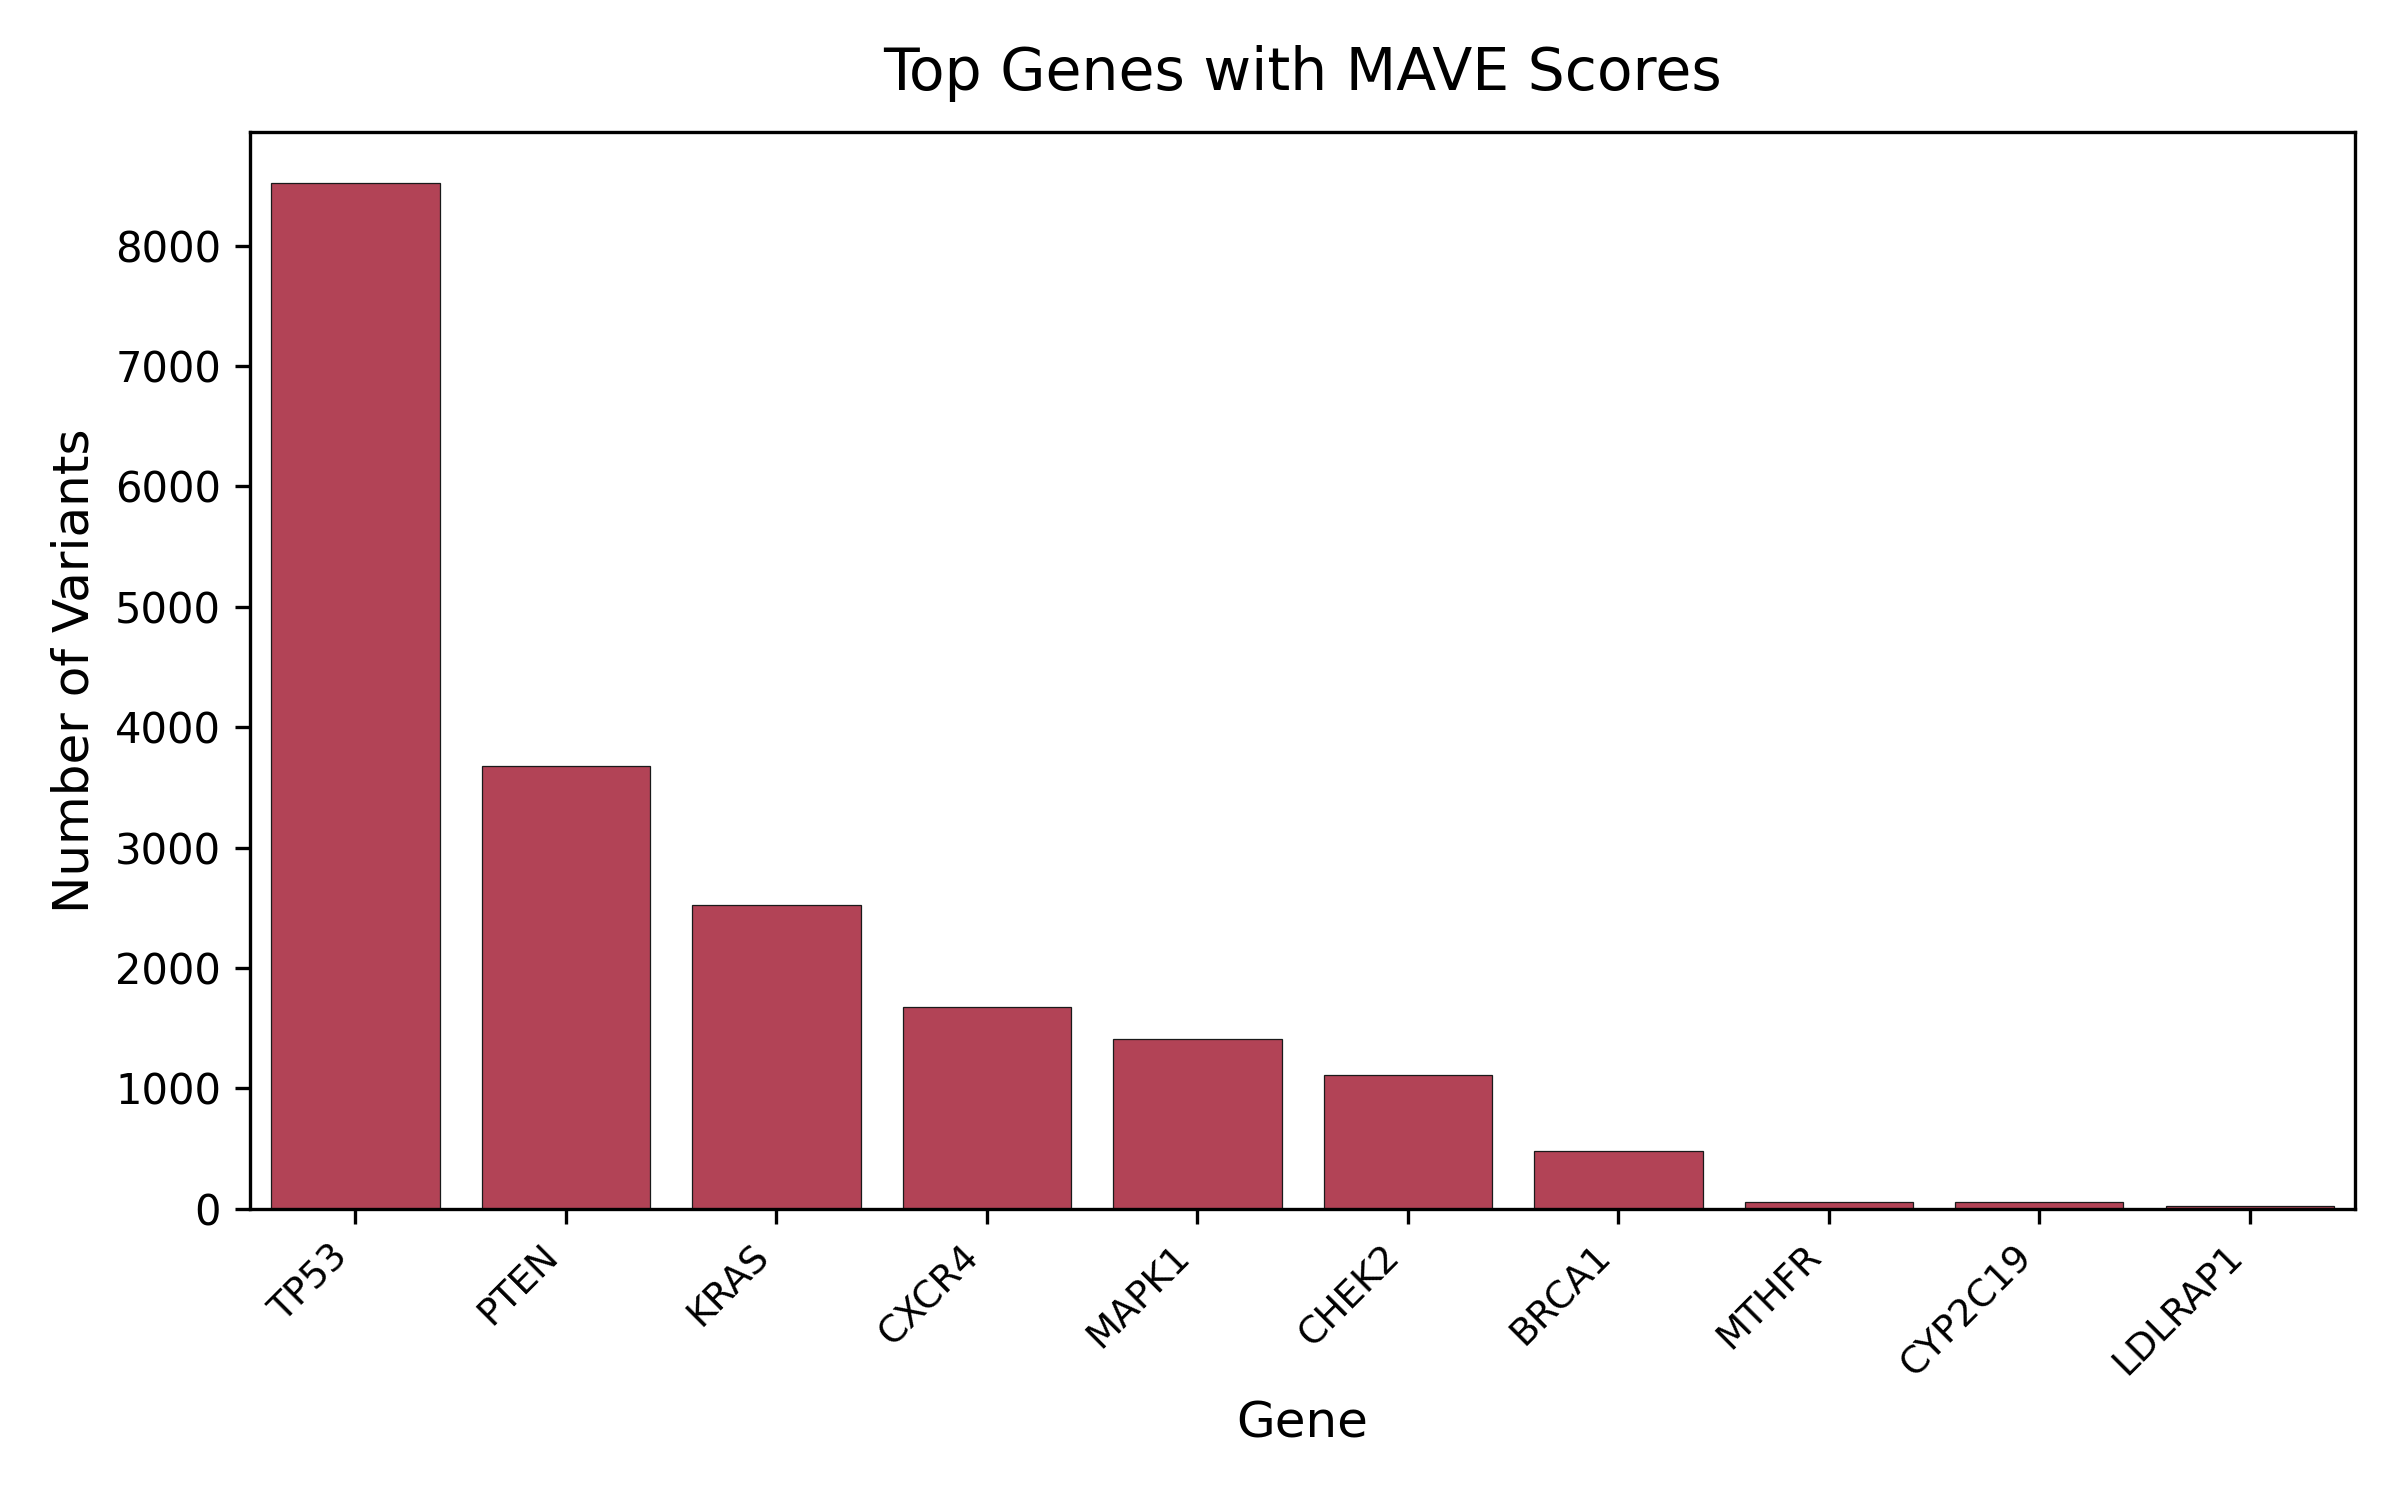
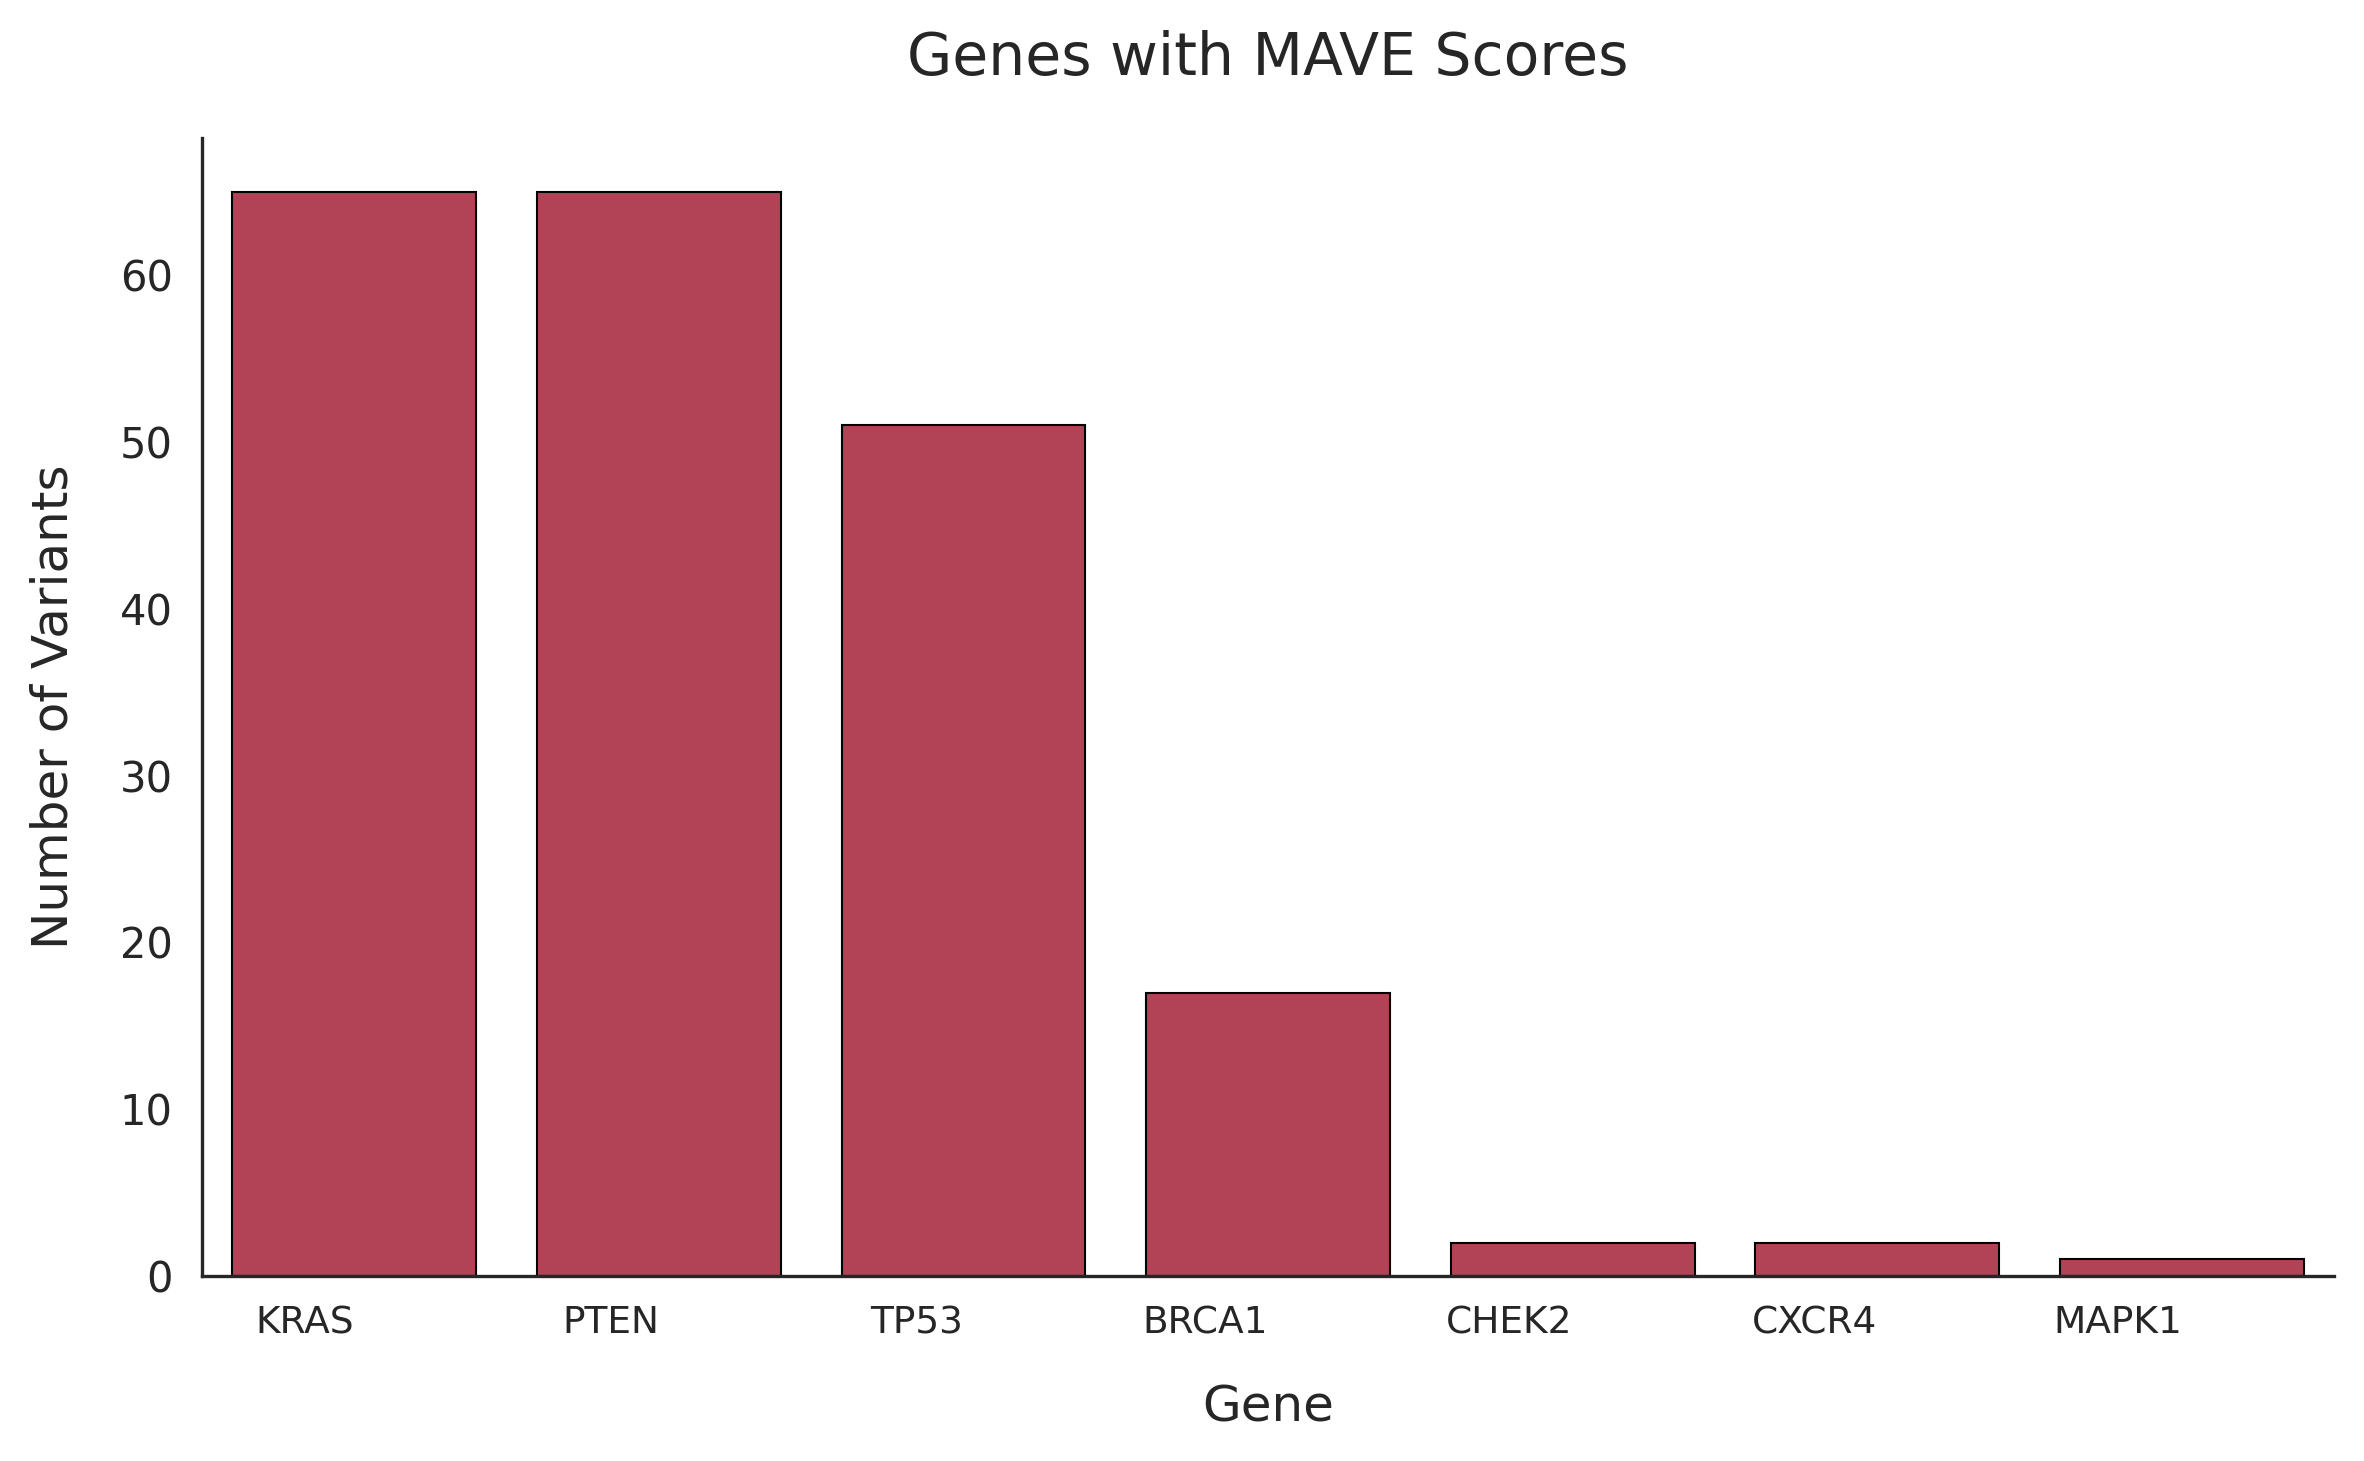
update maves

Changed region(s): [[0.0, 0.1232, 0.9882, 0.9856], [0.3706, 0.0, 0.7102, 0.0924]]

diff --git a/scripts/EDA/maves.py b/scripts/EDA/maves.py
@@ -14,7 +14,7 @@ Multiplexed Assays of Variant Effect (MAVEs)
 Major outputs:
 --------------
 1. Number of variants with MAVE scores
-2. Number of variants with MAVE scores for each oncogenicity class 
+2. Number of variants with MAVE scores per oncogenicity class (oncogenic vs neutral)
 3. Top genes with MAVE scores
 4. Filter out wanted MAVE experiments (by number of variants with MAVE score)
 5. Box plot of MaveDB score distributions within top MAVE experiments (single genes)
@@ -89,75 +89,91 @@ variants = pd.read_csv(
     low_memory=False
 )
 
-print(f"Loaded {len(variants):,} somatic variants.")
+print(f"Loaded {len(variants):,} somatic variants (exploded version).")
 print("-"*30)
 
 # ------------------------------------------------------------
 # Explore number of variants with MAVE scores
 # ------------------------------------------------------------
 
+# remove rows with no Mave score 
 variants_with_mave = variants[variants["MaveDB_score"].notna()]
+
+# make sure mave column is numeric 
 variants_with_mave["MaveDB_score"] = pd.to_numeric(variants_with_mave["MaveDB_score"], errors='coerce')
 
-print(f"Number of variants with MAVE scores: {len(variants_with_mave):,} variants.") 
-print(f"Percentage of variants with MAVE scores: {(len(variants_with_mave)/len(variants)*100):.2f}%.")
+# display number of mave rows 
+print(f"Number of rows with MAVE scores: {len(variants_with_mave):,} rows.") 
+print(f"Percentage of rows with MAVE scores: {(len(variants_with_mave)/len(variants)*100):.2f}%.\n")
+
+# find the number of unique Mave-variants
+variant_id_cols = ["Chromosome", "Start_Position", "Reference_Allele", "Tumor_Seq_Allele2"]
+wanted_classes = ["Oncogenic", "Likely Neutral"]
+
+mave_subset = variants_with_mave[variants_with_mave["ONCOGENIC"].isin(wanted_classes)]
+unique_mave_var = mave_subset.drop_duplicates(variant_id_cols) 
+
+unique_counts = unique_mave_var["ONCOGENIC"].value_counts() 
+
+# print number of unique variants per class 
+print("Unique variants with MAVE scores:")
+for c in wanted_classes:
+    count = unique_counts.get(c,0)
+    print(f"{c}: {count}")
 print("-"*30)
 
 # ------------------------------------------------------------
 # Explore number of variants with MAVE scores for
-# different oncogenicity classes 
+# the two oncogenicity classes 
 # ------------------------------------------------------------
 
-# Create summary table 
-oncogenicity_summary = (
-    variants_with_mave["ONCOGENIC"]
+print("Plotting MAVE variants per oncogenicity class...")
+
+unique_counts_df = (
+    unique_mave_var["ONCOGENIC"]
     .value_counts()
-    .reset_index(name="Variant_Count")
-    .rename(columns={"index": "Oncogenicity_Class", "ONCOGENIC": "Oncogenicity_Class"})
+    .reset_index(name="count")
+    .rename(columns={"index": "ONCOGENIC"})
 )
-
-print("Number of MAVE scores per oncogenicity class:")
-print(oncogenicity_summary,"\n") 
-
-# Plot summary 
-print("Plotting MAVE score per oncogenicity class...")
 
 oncogenicity_palette = {
     "Oncogenic": "#c4314a",
-    "Likely Oncogenic": "#D98C6A",
-    "Likely Neutral": "#88aed1",
-    "Inconclusive": "#f9c74f",
-    "Unknown": "#848a8e",
-    "Resistance": "#ba7ad4"
+    "Likely Neutral": "#88aed1"
 }
 
 plt.figure(figsize=(8,5))
-sns.barplot(data=oncogenicity_summary, 
-            x="Oncogenicity_Class",
-            y="Variant_Count",
-            hue="Oncogenicity_Class", 
-            palette=oncogenicity_palette, 
-            edgecolor="0.1",
-            linewidth=0.3) 
+sns.set_style("white")
 
-plt.title("Variants with MAVE Scores per Oncogenicity Class", fontsize=14, pad=10)
-plt.xlabel("Oncogenicity Class", fontsize=12)
-plt.ylabel("Number of Variants", fontsize=12) 
-plt.xticks(rotation=45, ha='right', fontsize=9)
+sns.barplot(
+    data=unique_counts_df, 
+    x="ONCOGENIC",
+    y="count",
+    hue="ONCOGENIC", 
+    palette=oncogenicity_palette, 
+    edgecolor="black",
+    linewidth=0.5) 
+
+sns.despine() 
+
+plt.title("Variants with MAVE Scores per Oncogenicity Class", fontsize=14, pad=15)
+plt.xlabel("Oncogenicity Class", fontsize=12, labelpad=10)
+plt.ylabel("Number of Variants", fontsize=12, labelpad=10) 
+plt.xticks(rotation=0, ha='right', fontsize=9)
+
 plt.tight_layout() 
-plt.savefig(f"{save_dir}/oncogenicity_classes_maves.png", dpi=300)
+plt.savefig(f"{save_dir}/oncogenicity_classes_maves.png", dpi=300, bbox_inches="tight")
 plt.show()
 
 print(f"Plotting complete! Plot saved as '{save_dir}/oncogenicity_classes_maves.png'\n")
 print("-"*30)
 
 # ------------------------------------------------------------
-# Explore top genes with MAVEdb_score 
+# Explore genes with MaveDB_score
 # ------------------------------------------------------------
 
 # Summary per gene 
-gene_summary = (
-  variants_with_mave.groupby("Hugo_Symbol")
+gene_summary_unique = (
+  unique_mave_var.groupby("Hugo_Symbol")
   .size()
   .reset_index(name="Variant_Count")
   .rename(columns={"Hugo_Symbol": "Gene"})
@@ -165,25 +181,30 @@ gene_summary = (
 )
 # Print summary 
 print("Number of MaveDB_scores per gene:")
-print(gene_summary.head(10), "\n") 
+print(gene_summary_unique.head(10), "\n") 
 
 # Plot summary 
-print("Plotting top genes with MaveDB score (by variant count)..")
+print("Plotting genes with MaveDB score (by variant count)..")
 
+sns.set_style("white")
 plt.figure(figsize=(8,5))
-sns.barplot(data=gene_summary.head(10), 
+
+sns.barplot(data=gene_summary_unique.head(10), 
             x="Gene",
             y="Variant_Count",
             color="#c4314a",
-            edgecolor="0.1",
-            linewidth=0.3) 
+            edgecolor="black",
+            linewidth=0.5) 
 
-plt.title("Top Genes with MAVE Scores", fontsize=14, pad=10)
-plt.xlabel("Gene", fontsize=12)
-plt.ylabel("Number of Variants", fontsize=12) 
-plt.xticks(rotation=45, ha='right', fontsize=9)
+sns.despine()
+
+plt.title("Genes with MAVE Scores", fontsize=14, pad=15)
+plt.xlabel("Gene", fontsize=12, labelpad=10)
+plt.ylabel("Number of Variants", fontsize=12, labelpad=10) 
+
+plt.xticks(rotation=0, ha='right', fontsize=9)
 plt.tight_layout() 
-plt.savefig(f"{save_dir}/top_genes_with_maves.png", dpi=300)
+plt.savefig(f"{save_dir}/top_genes_with_maves.png", dpi=300, bbox_inches="tight")
 plt.show()
 
 print(f"Plotting complete! Plot saved as '{save_dir}/top_genes_with_maves.png'")
@@ -193,8 +214,7 @@ print("-"*30)
 # Find oncogenicity distribution per gene and MaveDB score set: 
 # ------------------------------------------------------------
 
-oncogenicity_classes = ["Likely Neutral", "Oncogenic"] 
-variants_with_mave_filtered = variants_with_mave[variants_with_mave["ONCOGENIC"].isin(oncogenicity_classes)]
+variants_with_mave_filtered = variants_with_mave[variants_with_mave["ONCOGENIC"].isin(wanted_classes)]
 
 mave_summary = (
   variants_with_mave_filtered.groupby(["Hugo_Symbol", "MaveDB_urn", "ONCOGENIC"])
@@ -224,58 +244,115 @@ palette = {
     "Likely Neutral": "#88aed1",
 }
 
-# --- BOXPLOT ---
+#--------------
+# KDE plot
+#--------------
 
-g = sns.FacetGrid(mave_filtered, col="Hugo_Symbol", sharey=False, sharex=False)
-g.map_dataframe(sns.boxplot, x="ONCOGENIC", y="MaveDB_score", 
-                order=oncogenicity_classes,
-                palette=palette,
-                hue="ONCOGENIC",
-                hue_order=oncogenicity_classes)
+unique_genes = mave_filtered["Hugo_Symbol"].unique() 
 
-# Titles and axis labels
-g.set_titles(col_template="{col_name}") 
-g.set_axis_labels(x_var="Oncogenicity", y_var="MAVE Functional Score")
-g.figure.suptitle("MAVE Score Distribution by Oncogenicity Class", 
-                   fontsize=14, y=1.02)
-
-plt.tight_layout()
-plt.savefig(f"{save_dir}/mave_score_by_oncogenicity.png", dpi=300, bbox_inches="tight")
-
-
-# --- KDE PLOT ---
-
-g = sns.FacetGrid(mave_filtered, col="Hugo_Symbol", sharey=False, sharex=False, 
-                  hue="ONCOGENIC", hue_order=oncogenicity_classes, palette=palette)
-g.map(sns.kdeplot, "MaveDB_score", fill=True, alpha=0.5)
-
-# Add sample size annotations per panel
-for ax, gene in zip(g.axes.flat, g.col_names):
+for gene in unique_genes: 
     gene_data = mave_filtered[mave_filtered["Hugo_Symbol"] == gene]
+
+    plt.figure(figsize=(8,5))
+
+    sns.kdeplot(
+        data=gene_data,
+        x="MaveDB_score",
+        hue="ONCOGENIC",
+        hue_order=wanted_classes,
+        palette=palette,
+        fill=True,
+        alpha=0.5
+    )
+
     n_neutral = (gene_data["ONCOGENIC"] == "Likely Neutral").sum()
     n_oncogenic = (gene_data["ONCOGENIC"] == "Oncogenic").sum()
+
     
-    ax.annotate(
+    plt.gca().annotate(
         f"n(Likely Neutral) = {n_neutral}\nn(Oncogenic) = {n_oncogenic}",
-        xy=(0.05, 0.95),           
+        xy=(0.05, 0.95),
         xycoords="axes fraction",
-        fontsize=6,
+        fontsize=8,
         va="top",
         ha="left",
         bbox=dict(boxstyle="round,pad=0.1", fc="white", alpha=0.5)
     )
+    
+    sns.despine()
 
-# Titles and axis labels
-g.set_titles(col_template="{col_name}")
-g.set_axis_labels(x_var="MAVE Functional Score", y_var="Density")
-g.figure.suptitle("MAVE Score Distribution by Oncogenicity Class",
-                   fontsize=14, y=1.02)
-g.add_legend(title="Oncogenicity", fontsize=9)
+    plt.title(f"MAVE Score Distribution: {gene}", fontsize=14, pad=15)
+    plt.xlabel("MAVE Functional Score (MaveDB)", fontsize=12, labelpad=10)
+    plt.ylabel("Density", fontsize=12, labelpad=10)
+    
+    plt.tight_layout()
+    file_name = f"mave_density_{gene}.png"
+    plt.savefig(f"{save_dir}/{file_name}", dpi=300, bbox_inches="tight")
+    
+    print(f"Saved plot for {gene} to {file_name}")
 
-plt.tight_layout()
-plt.savefig(f"{save_dir}/mave_score_density_by_oncogenicity.png", dpi=300, bbox_inches="tight")
+#--------------
+# Box plot
+#--------------
 
-print(f"Plotting complete. Plots saved in folder: {save_dir}.\n")
+unique_genes = mave_filtered["Hugo_Symbol"].unique() 
+
+for gene in unique_genes: 
+    gene_data = mave_filtered[mave_filtered["Hugo_Symbol"] == gene]
+
+    plt.figure(figsize=(8,5))
+    sns.set_style("white")
+
+    sns.boxplot(
+        data=gene_data,
+        x="ONCOGENIC",
+        y="MaveDB_score",
+        order=wanted_classes,
+        hue="ONCOGENIC",
+        hue_order=wanted_classes,
+        palette=palette,
+        legend=False, 
+        width=0.6,
+        linewidth=1.2
+    )
+
+    sns.stripplot(
+        data=gene_data,
+        x="ONCOGENIC",
+        y="MaveDB_score",
+        order=wanted_classes,
+        color="black",
+        alpha=0.3,
+        size=4,
+        jitter=True
+    )
+
+    n_neutral = (gene_data["ONCOGENIC"] == "Likely Neutral").sum()
+    n_oncogenic = (gene_data["ONCOGENIC"] == "Oncogenic").sum()
+
+    
+    plt.gca().annotate(
+        f"n(Likely Neutral) = {n_neutral}\nn(Oncogenic) = {n_oncogenic}",
+        xy=(0.05, 0.95),
+        xycoords="axes fraction",
+        fontsize=9,
+        va="top",
+        ha="left",
+        bbox=dict(boxstyle="round,pad=0.2", fc="white", alpha=0.5)
+    )
+    
+    sns.despine()
+
+    plt.title(f"MAVE Score Distribution: {gene}", fontsize=14, pad=15)
+    plt.xlabel("MAVE Functional Score (MaveDB)", fontsize=12, labelpad=10)
+    plt.ylabel("Density", fontsize=12, labelpad=10)
+    
+    plt.tight_layout()
+
+    file_name = f"mave_boxplot_{gene}.png"
+    plt.savefig(f"{save_dir}/{file_name}", dpi=300, bbox_inches="tight")
+    
+    print(f"Saved plot for {gene} to {file_name}")
 
 
 #----------------------------------------------------------
